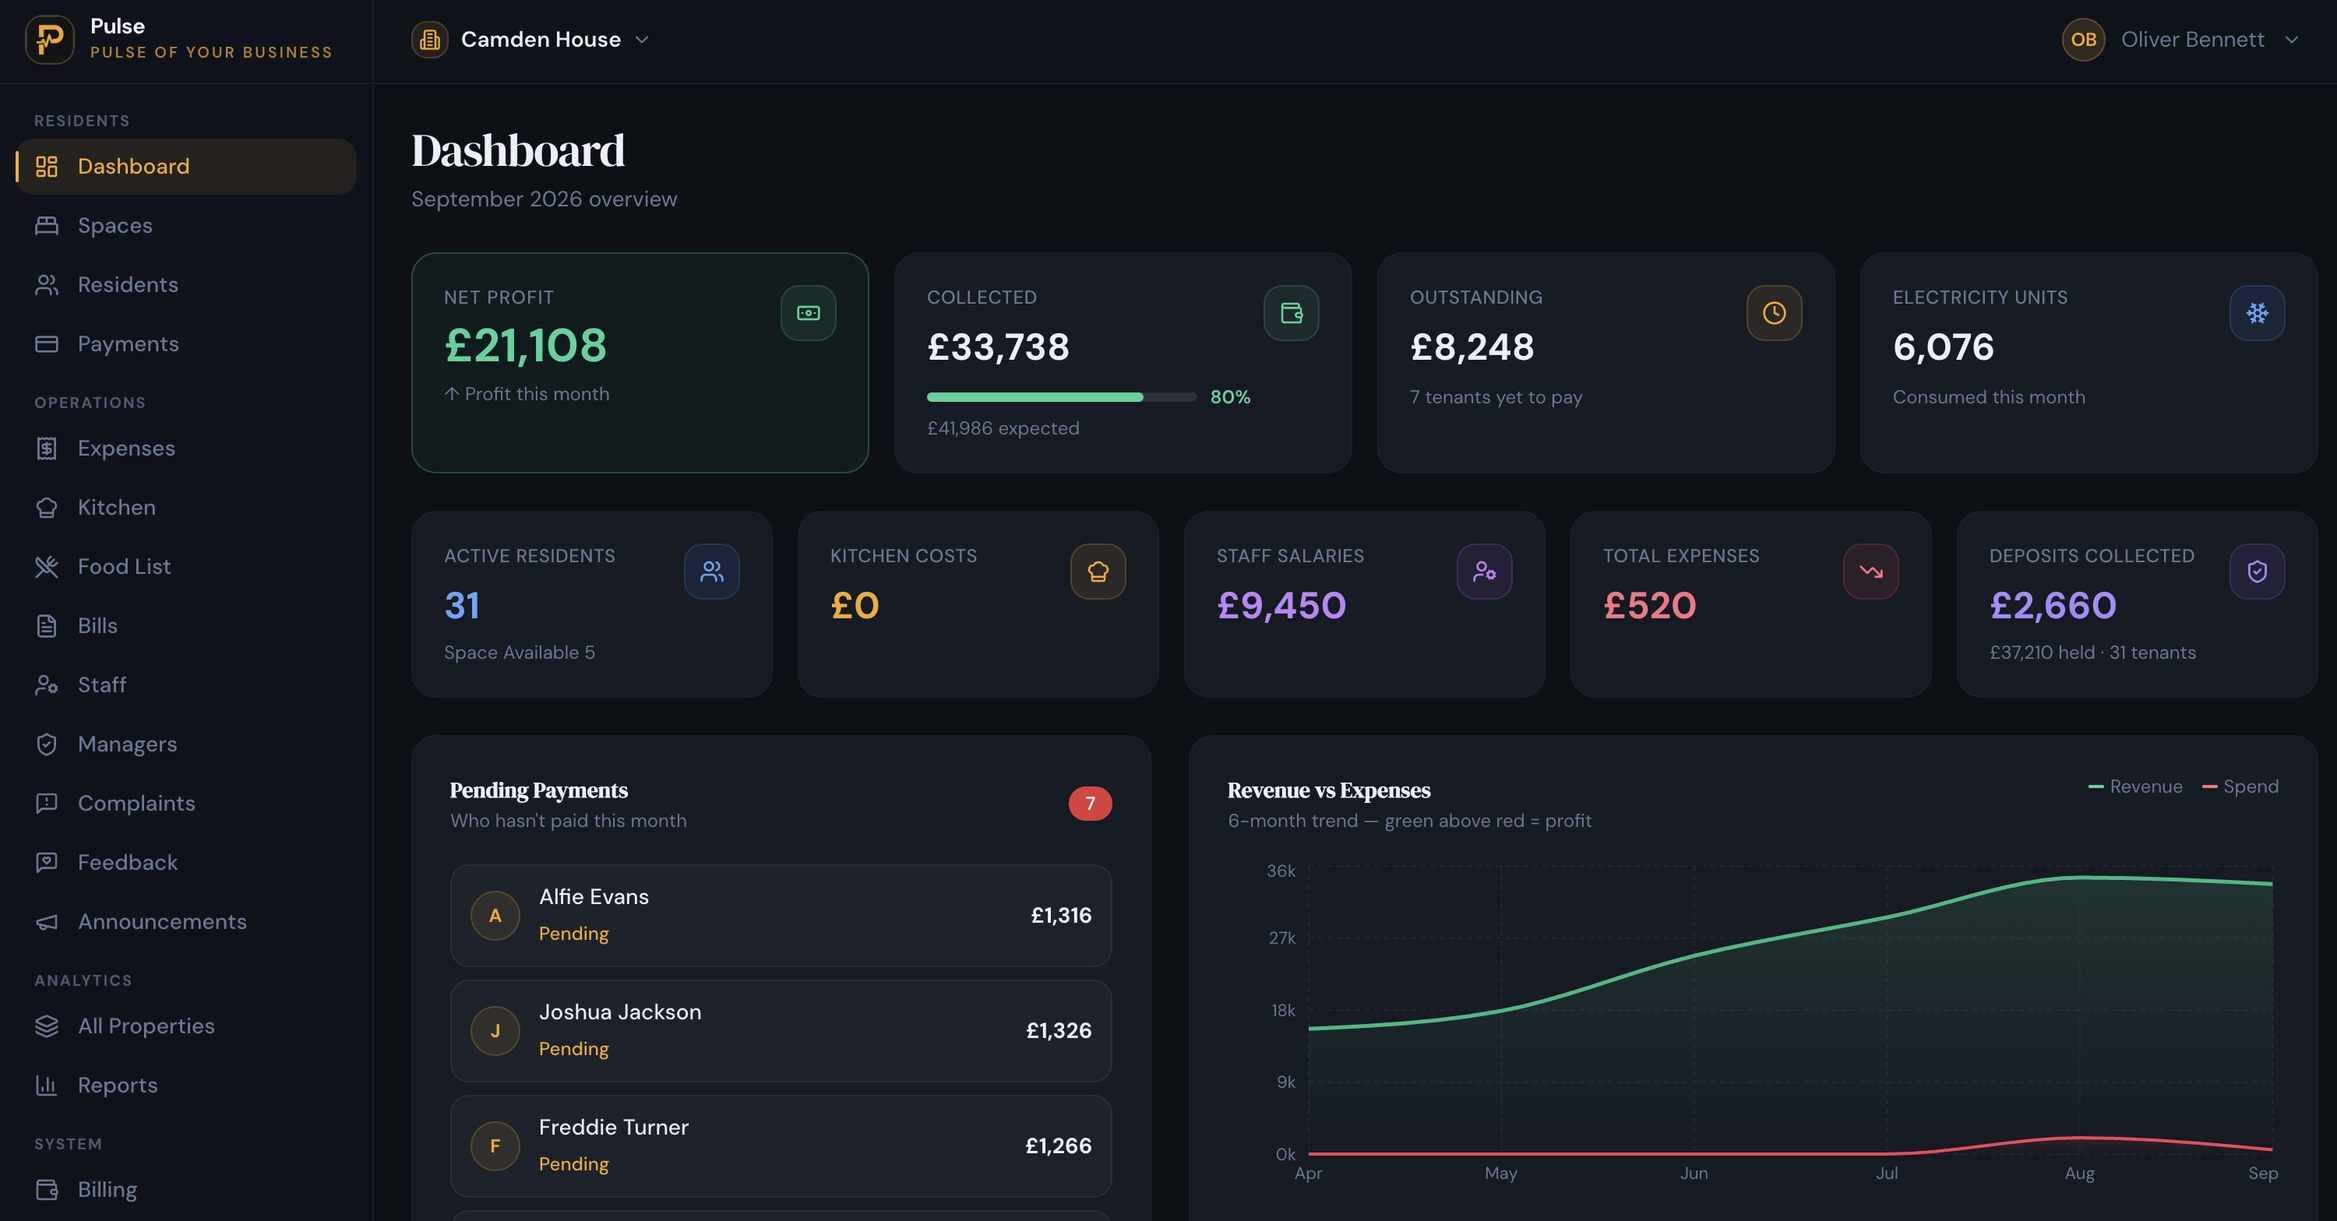
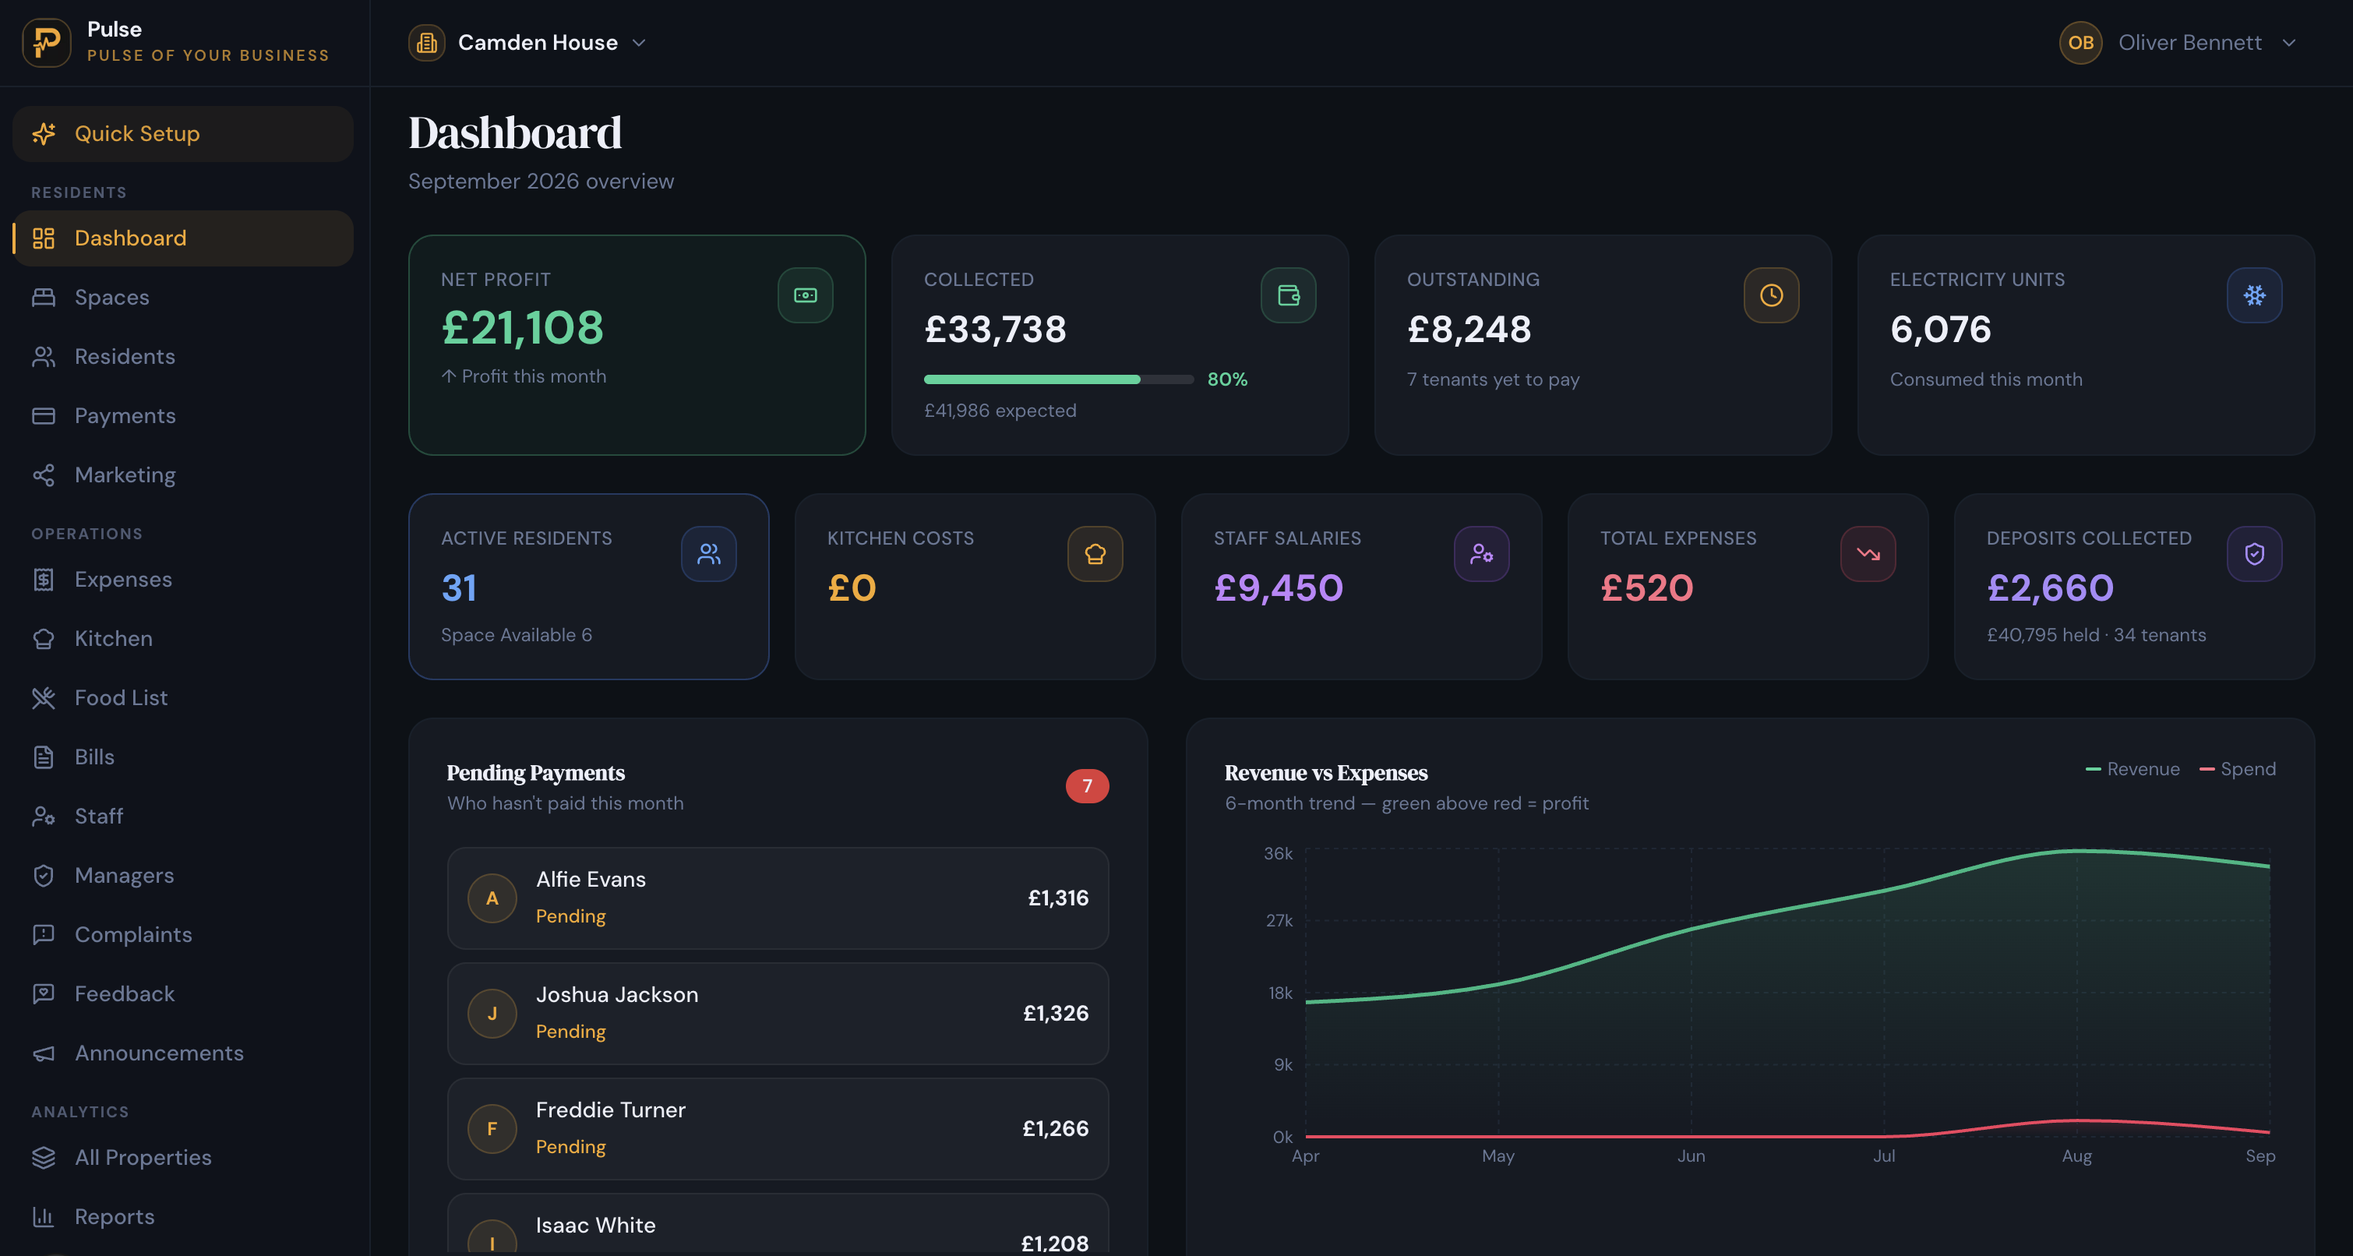
Enhance billing features and visuals across regional pages
- Added billing steps section to the Pakistan and UK pages, detailing the invoice generation, payment recording, and checkout processes.
- Updated the PricingGrid component to support geo-aware functionality, allowing users to select their country for localized pricing.
- Introduced new product screenshots for invoices, receipts, and checkouts to improve visual representation of billing processes.
- Adjusted dimensions of existing screenshots for consistency and clarity in the blog and component displays.

diff --git a/components/pricing-grid.tsx b/components/pricing-grid.tsx
@@ -25,18 +25,26 @@ export default function PricingGrid({
   subtitle,
   initialRegionCode = DEFAULT_REGION_CODE,
   showSelector = true,
+  geoAware = false,
 }: {
   heading?: string
   subtitle: string
   initialRegionCode?: RegionCode
   showSelector?: boolean
+  /**
+   * Homepage-only: start with a "Choose your country" prompt instead of a hardcoded
+   * currency, then default the selector to the visitor's region from GEO-IP. It only
+   * changes which currency is shown; it never redirects.
+   */
+  geoAware?: boolean
 }) {
   const [cycle, setCycle] = useState<'monthly' | 'yearly'>('monthly')
-  const [regionCode, setRegionCode] = useState<RegionCode>(initialRegionCode)
+  const [regionCode, setRegionCode] = useState<RegionCode | ''>(geoAware ? '' : initialRegionCode)
   const isAnnual = cycle === 'yearly'
   const pathname = usePathname()
   const sectionRef = useRef<HTMLElement>(null)
 
+  const chosen = regionCode !== ''
   const region = getRegion(regionCode)
   const plans = regionPlans(region)
   const branchTiers = region.branchTiers ?? []
@@ -56,9 +64,30 @@ export default function PricingGrid({
     return () => observer.disconnect()
   }, [pathname])
 
-  function onRegionChange(code: RegionCode) {
+  useEffect(() => {
+    if (!geoAware) return
+    let cancelled = false
+    fetch('/api/geo')
+      .then((res) => (res.ok ? res.json() : null))
+      .then((data: { country?: string | null } | null) => {
+        if (cancelled || !data?.country) return
+        const code = data.country.toLowerCase()
+        // Region codes are ISO country codes; only auto-select a market we actually price.
+        if (regions.some((item) => item.code === code)) {
+          setRegionCode((prev) => (prev === '' ? (code as RegionCode) : prev))
+        }
+      })
+      .catch(() => {
+        // Soft enhancement: if GEO-IP is unavailable, the visitor picks their country.
+      })
+    return () => {
+      cancelled = true
+    }
+  }, [geoAware])
+
+  function onRegionChange(code: RegionCode | '') {
     setRegionCode(code)
-    trackCountrySelected(code)
+    if (code !== '') trackCountrySelected(code)
   }
 
   return (
@@ -77,10 +106,11 @@ export default function PricingGrid({
               <span>Country / region</span>
               <select
                 value={regionCode}
-                onChange={(event) => onRegionChange(event.target.value as RegionCode)}
+                onChange={(event) => onRegionChange(event.target.value as RegionCode | '')}
                 className="min-h-9 rounded-lg border border-border bg-card px-3 py-1.5 text-sm font-medium text-foreground focus-visible:outline-none focus-visible:ring-2 focus-visible:ring-ring"
                 aria-label="Choose your country or region for pricing"
               >
+                {geoAware ? <option value="">Choose your country</option> : null}
                 {regions.map((item) => (
                   <option key={item.code} value={item.code}>
                     {item.label} ({item.currency})
@@ -90,32 +120,43 @@ export default function PricingGrid({
             </label>
           ) : null}
 
-          <div className="grid w-full max-w-md grid-cols-2 rounded-full border border-border bg-card p-1" role="group" aria-label="Billing cycle">
-            <button
-              type="button"
-              aria-pressed={cycle === 'monthly'}
-              onClick={() => setCycle('monthly')}
-              className={`min-h-11 rounded-full px-3 text-sm font-semibold focus-visible:outline-none focus-visible:ring-2 focus-visible:ring-ring ${cycle === 'monthly' ? 'bg-primary text-primary-foreground' : 'text-foreground/65 hover:text-foreground'}`}
-            >
-              Monthly
-            </button>
-            <button
-              type="button"
-              aria-pressed={isAnnual}
-              onClick={() => setCycle('yearly')}
-              className={`min-h-11 rounded-full px-3 text-sm font-semibold focus-visible:outline-none focus-visible:ring-2 focus-visible:ring-ring ${isAnnual ? 'bg-primary text-primary-foreground' : 'text-foreground/65 hover:text-foreground'}`}
-            >
-              Annual
-            </button>
-          </div>
-          <p className="max-w-md text-center text-[15px] text-muted-foreground" aria-live="polite">
-            {isAnnual
-              ? `Pay for ${MONTHS_PAID_ANNUALLY} months, get ${MONTHS_INCLUDED_ANNUALLY}. Save ${ANNUAL_MONTHS_SAVED} months.`
-              : `Annual billing: pay ${MONTHS_PAID_ANNUALLY} months, get ${MONTHS_INCLUDED_ANNUALLY}.`}
-          </p>
+          {chosen ? (
+            <>
+              <div className="grid w-full max-w-md grid-cols-2 rounded-full border border-border bg-card p-1" role="group" aria-label="Billing cycle">
+                <button
+                  type="button"
+                  aria-pressed={cycle === 'monthly'}
+                  onClick={() => setCycle('monthly')}
+                  className={`min-h-11 rounded-full px-3 text-sm font-semibold focus-visible:outline-none focus-visible:ring-2 focus-visible:ring-ring ${cycle === 'monthly' ? 'bg-primary text-primary-foreground' : 'text-foreground/65 hover:text-foreground'}`}
+                >
+                  Monthly
+                </button>
+                <button
+                  type="button"
+                  aria-pressed={isAnnual}
+                  onClick={() => setCycle('yearly')}
+                  className={`min-h-11 rounded-full px-3 text-sm font-semibold focus-visible:outline-none focus-visible:ring-2 focus-visible:ring-ring ${isAnnual ? 'bg-primary text-primary-foreground' : 'text-foreground/65 hover:text-foreground'}`}
+                >
+                  Annual
+                </button>
+              </div>
+              <p className="max-w-md text-center text-[15px] text-muted-foreground" aria-live="polite">
+                {isAnnual
+                  ? `Pay for ${MONTHS_PAID_ANNUALLY} months, get ${MONTHS_INCLUDED_ANNUALLY}. Save ${ANNUAL_MONTHS_SAVED} months.`
+                  : `Annual billing: pay ${MONTHS_PAID_ANNUALLY} months, get ${MONTHS_INCLUDED_ANNUALLY}.`}
+              </p>
+            </>
+          ) : null}
         </div>
 
-        {region.model === 'branch-tiered' ? (
+        {!chosen ? (
+          <div className="mx-auto max-w-xl rounded-2xl border border-dashed border-border bg-card/60 p-8 text-center sm:p-10">
+            <p className="font-display text-xl font-medium tracking-tight sm:text-2xl">Choose your country to see pricing</p>
+            <p className="mt-2 text-base text-muted-foreground">
+              PulseHub is priced in your local currency. Select your country above to see the plans available to you.
+            </p>
+          </div>
+        ) : region.model === 'branch-tiered' ? (
           <div className="mx-auto max-w-3xl">
             <div className="overflow-hidden rounded-2xl border-2 border-primary bg-card shadow-lg shadow-primary/15">
               <div className="border-b border-border bg-primary/5 px-5 py-4 sm:px-6">

diff --git a/app/pakistan/page.tsx b/app/pakistan/page.tsx
@@ -87,6 +87,27 @@ const pakistanFeatures: { icon: typeof Wallet; title: string; description: strin
   { icon: BedDouble, title: 'Hostel operations', description: 'Rooms, beds, admissions and check-outs.' },
 ]
 
+const billingSteps = [
+  {
+    number: '01',
+    title: 'Generate invoices',
+    description: 'Automatically generate monthly rent and metered AC charges with a clear breakdown.',
+    shot: pakistanScreenshots.invoice,
+  },
+  {
+    number: '02',
+    title: 'Record payments and issue receipts',
+    description: 'Record payments and instantly generate clear receipts you can share online or over WhatsApp.',
+    shot: pakistanScreenshots.receipt,
+  },
+  {
+    number: '03',
+    title: 'Handle check-outs',
+    description: 'Pro-rate the final month, settle outstanding dues against the deposit, and see exactly what to collect or refund.',
+    shot: pakistanScreenshots.checkout,
+  },
+]
+
 const comparisonRows = [
   { aspect: 'Records', manual: 'Separate spreadsheets and paper registers', pulsehub: 'One central system for every property' },
   { aspect: 'Rent and payments', manual: 'Manual calculations, easy to miss', pulsehub: 'Tracked per resident, including partial payments' },
@@ -369,6 +390,38 @@ export default function PakistanPage() {
               sizes="(max-width: 1023px) calc(100vw - 2rem), 40rem"
             />
           </div>
+        </div>
+      </section>
+
+      {/* Billing lifecycle: invoice, receipt, checkout */}
+      <section className="bg-muted/30 px-4 py-14 sm:px-6 sm:py-16 lg:px-8">
+        <div className="mx-auto max-w-7xl">
+          <H2>From monthly billing to final checkout</H2>
+          <Lead>
+            Manage rent, AC charges, payments, deposits and final settlements for every tenant in one place.
+          </Lead>
+          <ol className="mt-8 grid gap-8 sm:gap-6 lg:grid-cols-3">
+            {billingSteps.map((step) => (
+              <li key={step.number} className="flex flex-col">
+                <p className="font-mono text-xs uppercase tracking-[0.2em] text-primary">{step.number}</p>
+                <h3 className="mt-2 text-lg font-semibold tracking-tight sm:text-xl">{step.title}</h3>
+                <p className="mt-1.5 text-base leading-relaxed text-muted-foreground">{step.description}</p>
+                <div className="mt-5 rounded-xl border border-border bg-card p-3 shadow-sm">
+                  <div className="mx-auto w-full max-w-[17rem]">
+                    <ProductScreenshot
+                      src={step.shot.src}
+                      alt={step.shot.alt}
+                      width={step.shot.width}
+                      height={step.shot.height}
+                      frame={false}
+                      sizes="(max-width: 640px) calc(100vw - 3.5rem), (max-width: 1024px) calc(50vw - 3.5rem), 17rem"
+                      className="rounded-lg"
+                    />
+                  </div>
+                </div>
+              </li>
+            ))}
+          </ol>
         </div>
       </section>
 

diff --git a/app/uk/page.tsx b/app/uk/page.tsx
@@ -33,6 +33,27 @@ const useCases = [
   { icon: BedDouble, title: 'Hostels & shared', description: 'Bed-level occupancy and payments for high-turnover sites.', href: routes.features },
 ]
 
+const billingSteps = [
+  {
+    number: '01',
+    title: 'Generate invoices',
+    description: 'Automatically generate monthly rent and electricity charges with a clear breakdown.',
+    shot: screenshots.invoice,
+  },
+  {
+    number: '02',
+    title: 'Record payments and issue receipts',
+    description: 'Record payments and instantly generate clear, professional receipts for residents.',
+    shot: screenshots.receipt,
+  },
+  {
+    number: '03',
+    title: 'Handle check-outs',
+    description: 'Calculate final utility charges, apply outstanding dues against the deposit, and see exactly what to collect or refund.',
+    shot: screenshots.checkout,
+  },
+]
+
 const faqs = [
   {
     question: 'What accommodation types does PulseHub support in the UK?',
@@ -157,6 +178,37 @@ export default function UkPage() {
               sizes="(max-width: 1023px) calc(100vw - 2rem), 40rem"
             />
           </div>
+        </div>
+      </section>
+
+      <section className="bg-muted/30 px-4 py-14 sm:px-6 sm:py-16 lg:px-8">
+        <div className="mx-auto max-w-7xl">
+          <SectionHeading
+            heading="From monthly billing to final checkout"
+            subtitle="Manage rent, utility charges, payments, deposits and final settlements for every resident in one place."
+          />
+          <ol className="mt-10 grid gap-8 sm:gap-6 lg:grid-cols-3">
+            {billingSteps.map((step) => (
+              <li key={step.number} className="flex flex-col">
+                <p className="font-mono text-xs uppercase tracking-[0.2em] text-primary">{step.number}</p>
+                <h3 className="mt-2 text-lg font-semibold tracking-tight sm:text-xl">{step.title}</h3>
+                <p className="mt-1.5 text-base leading-relaxed text-muted-foreground">{step.description}</p>
+                <div className="mt-5 rounded-xl border border-border bg-card p-3 shadow-sm">
+                  <div className="mx-auto w-full max-w-[17rem]">
+                    <ProductScreenshot
+                      src={step.shot.src}
+                      alt={step.shot.alt}
+                      width={step.shot.width}
+                      height={step.shot.height}
+                      frame={false}
+                      sizes="(max-width: 640px) calc(100vw - 3.5rem), (max-width: 1024px) calc(50vw - 3.5rem), 17rem"
+                      className="rounded-lg"
+                    />
+                  </div>
+                </div>
+              </li>
+            ))}
+          </ol>
         </div>
       </section>
 

diff --git a/lib/screenshots.ts b/lib/screenshots.ts
@@ -1,14 +1,14 @@
 export const screenshots = {
   dashboard: {
     src: '/screenshots/dashboard.png',
-    width: 3000,
-    height: 1568,
+    width: 3020,
+    height: 1612,
     alt: 'PulseHub accommodation management dashboard showing rent collection and business performance',
   },
   payments: {
     src: '/screenshots/payments.png',
-    width: 2998,
-    height: 1562,
+    width: 3024,
+    height: 1570,
     alt: 'PulseHub payments screen showing rent, utility charges, and payment statuses',
   },
   properties: {
@@ -34,6 +34,24 @@ export const screenshots = {
     width: 1814,
     height: 1692,
     alt: 'A public PulseHub property website showing rooms with photos, monthly rent in pounds, available seats, amenities, a WhatsApp button and a join waitlist button',
+  },
+  invoice: {
+    src: '/screenshots/invoice.png',
+    width: 1232,
+    height: 1504,
+    alt: 'A PulseHub resident invoice showing monthly rent and metered electricity charges with the total amount due in pounds',
+  },
+  receipt: {
+    src: '/screenshots/payment-receipt.png',
+    width: 1118,
+    height: 1512,
+    alt: 'A PulseHub payment receipt showing the receipt number, payment method, a rent and electricity breakdown, and the total paid in pounds',
+  },
+  checkout: {
+    src: '/screenshots/checkout.png',
+    width: 990,
+    height: 1560,
+    alt: 'The PulseHub check-out screen calculating a resident final electricity charge from meter readings and settling it against the deposit to show the refund due',
   },
 } as const
 
@@ -74,5 +92,23 @@ export const pakistanScreenshots = {
     width: 1818,
     height: 1616,
     alt: 'A public PulseHub hostel website showing rooms with photos, monthly rent in rupees, available seats, amenities, a WhatsApp button and a join waitlist button',
+  },
+  invoice: {
+    src: '/screenshots/pk-invoice.png',
+    width: 1104,
+    height: 1526,
+    alt: 'A PulseHub hostel invoice in rupees showing monthly rent and metered AC charges with the total amount due',
+  },
+  receipt: {
+    src: '/screenshots/pk-payment-receipt.png',
+    width: 996,
+    height: 1506,
+    alt: 'A PulseHub payment receipt in rupees showing the receipt number, payment method, a rent and AC charges breakdown, and the total paid',
+  },
+  checkout: {
+    src: '/screenshots/pk-checkout.png',
+    width: 670,
+    height: 1578,
+    alt: 'The PulseHub check-out screen pro-rating a resident final month, settling outstanding dues against the deposit, and showing the amount to collect or refund in rupees',
   },
 } as const

diff --git a/lib/blog.ts b/lib/blog.ts
@@ -42,8 +42,8 @@ export const blogPosts: BlogPost[] = [
     readingMinutes: 10,
     image: {
       src: '/screenshots/payments.png',
-      width: 2998,
-      height: 1562,
+      width: 3024,
+      height: 1570,
       alt: 'PulseHub payments screen showing HMO rent due, part-payments, deposits and overdue balances per room and tenant',
       label: 'Payments · rent, part-payments & arrears',
     },

diff --git a/app/page.tsx b/app/page.tsx
@@ -86,6 +86,7 @@ export default function Page() {
       <PricingGrid
         heading="Pricing that grows with your portfolio"
         subtitle="Plans by property allowance: 1, 3 or 10 properties. 14-day free trial, no card. Annual billing saves 2 months."
+        geoAware
       />
       <HomeFaq />
       <Cta />
